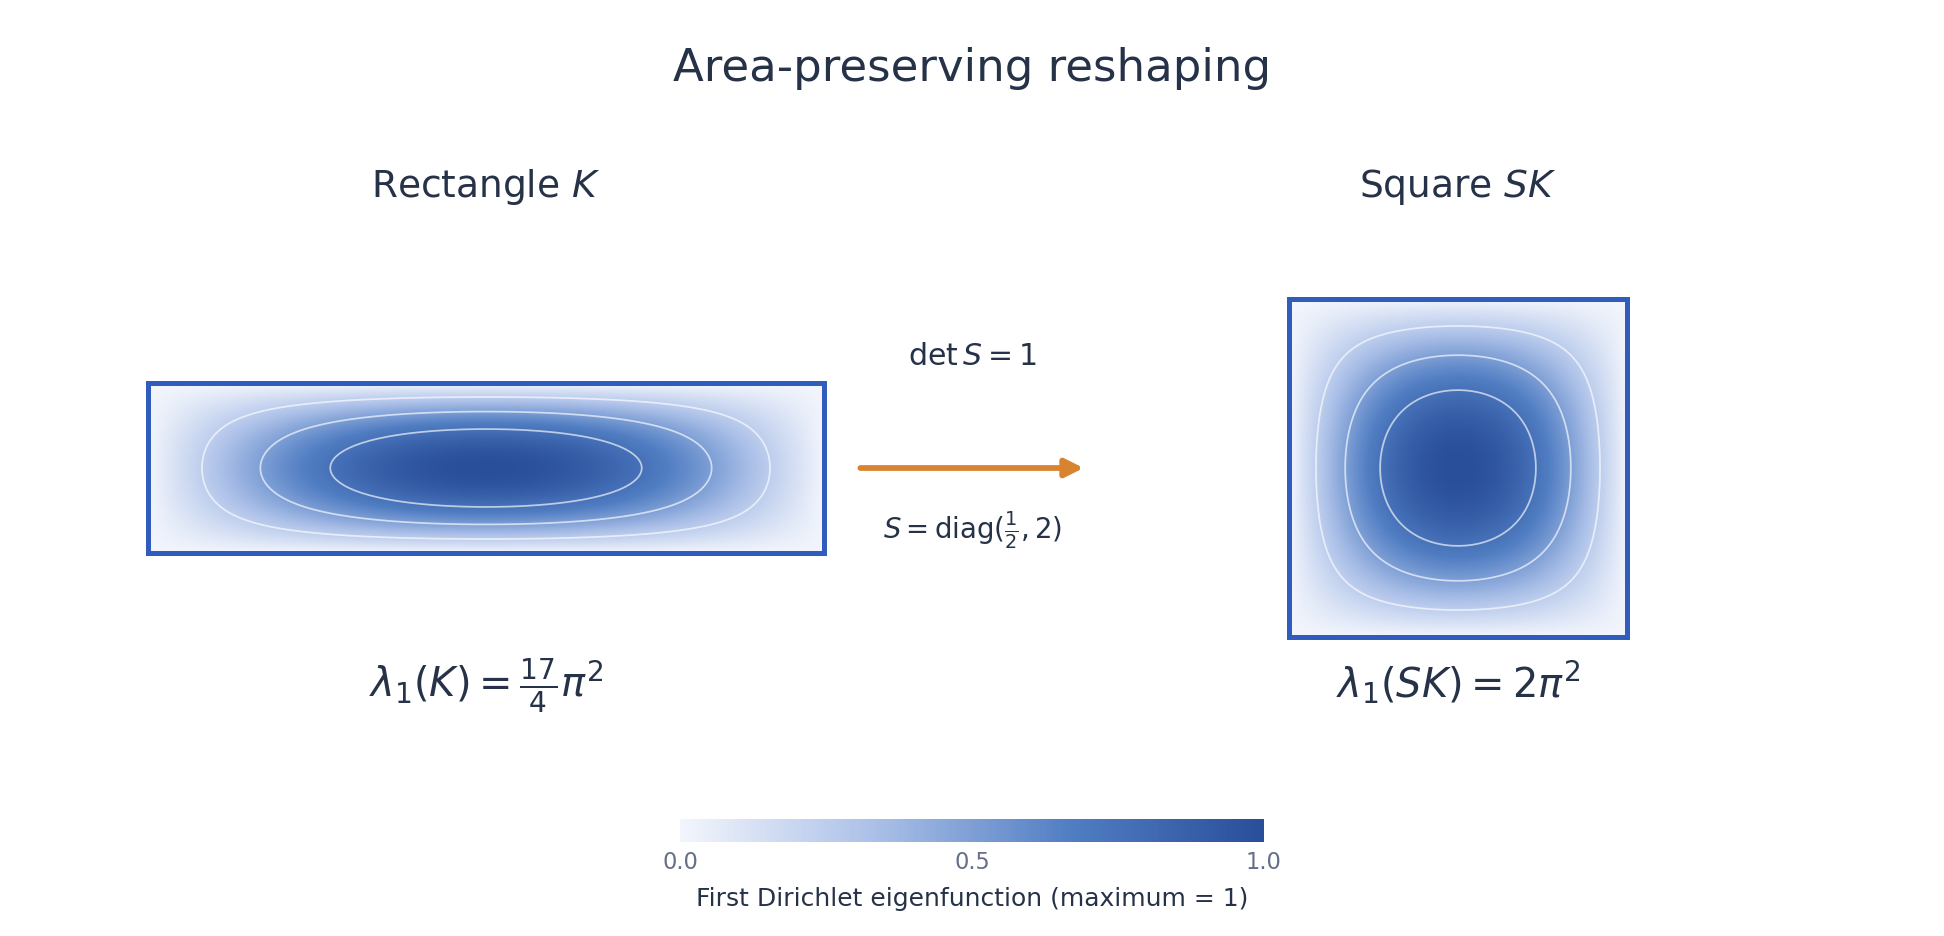
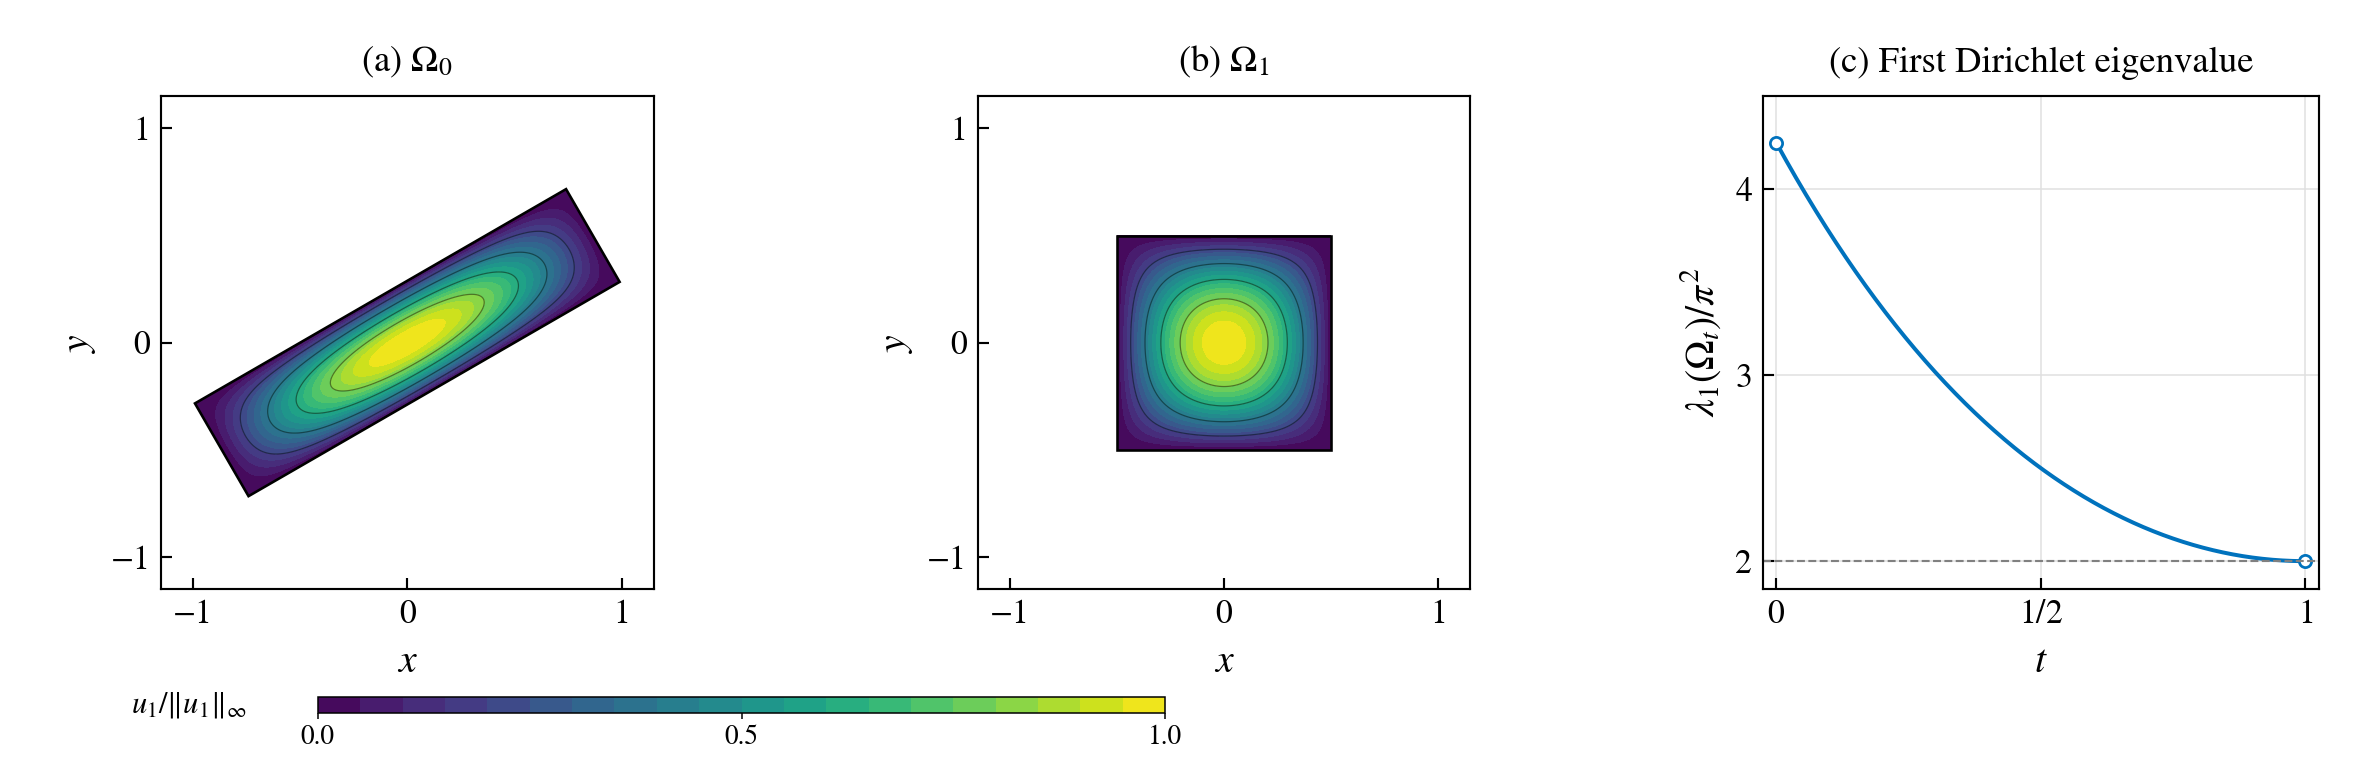
Refine preprint figures and simplify research pop-ups

diff --git a/index.html b/index.html
@@ -708,7 +708,7 @@
               <div data-groups='["all","other"]' class="item-portfolio">
                 <div class="research-card open-modal-portfolio" data-modal-id="modal-publication-affine-reverse-faber-krahn">
                   <div class="research-card-figure" style="--figure-padding: 8px">
-                    <svg class="research-card-thumbnail" viewBox="0 0 1944 936" preserveAspectRatio="xMidYMid meet" role="img" aria-label="An area-preserving linear map reshapes a thin rectangle into a square, reducing its first Dirichlet eigenvalue" focusable="false"><defs><clipPath id="figure-crop-affine-reverse-faber-krahn"><rect x="0" y="0" width="1944" height="936" /></clipPath></defs><image href="assets/images/portfolios/affine_reverse_faber_krahn.png" width="1944" height="936" clip-path="url(#figure-crop-affine-reverse-faber-krahn)" /></svg>
+                    <svg class="research-card-thumbnail" viewBox="52 37 610 652" preserveAspectRatio="xMidYMid meet" role="img" aria-label="Contours of the first Dirichlet eigenfunction on a rotated unit-area rectangle" focusable="false"><defs><clipPath id="figure-crop-affine-reverse-faber-krahn"><rect x="52" y="37" width="610" height="652" /></clipPath></defs><image href="assets/images/portfolios/affine_reverse_faber_krahn.png" width="2354" height="770" clip-path="url(#figure-crop-affine-reverse-faber-krahn)" /></svg>
                   </div>
                   <div class="research-card-body">
                     <h2 class="text-base font-medium text-heading">An affine reverse Faber-Krahn inequality via information decay</h2>
@@ -720,7 +720,7 @@
               <div data-groups='["all","other"]' class="item-portfolio">
                 <div class="research-card open-modal-portfolio" data-modal-id="modal-publication-spectral-isometries">
                   <div class="research-card-figure" style="--figure-padding: 8px">
-                    <svg class="research-card-thumbnail" viewBox="90 125 850 710" preserveAspectRatio="xMidYMid meet" role="img" aria-label="Nested elliptical numerical ranges share fixed eigenvalues at minus one and plus one" focusable="false"><defs><clipPath id="figure-crop-spectral-isometries"><rect x="90" y="125" width="850" height="710" /></clipPath></defs><image href="assets/images/portfolios/spectral_isometries.png" width="1944" height="936" clip-path="url(#figure-crop-spectral-isometries)" /></svg>
+                    <svg class="research-card-thumbnail" viewBox="173 29 915 739" preserveAspectRatio="xMidYMid meet" role="img" aria-label="Nested elliptical numerical ranges share fixed eigenvalues at minus one and plus one" focusable="false"><defs><clipPath id="figure-crop-spectral-isometries"><rect x="173" y="29" width="915" height="739" /></clipPath></defs><image href="assets/images/portfolios/spectral_isometries.png" width="2068" height="814" clip-path="url(#figure-crop-spectral-isometries)" /></svg>
                   </div>
                   <div class="research-card-body">
                     <h2 class="text-base font-medium text-heading">Spectral isometries of unital C*-algebras</h2>
@@ -902,8 +902,7 @@
   <h1 class="text-xl font-medium text-heading">An affine reverse Faber-Krahn inequality via information decay</h1>
   <h2 class="text-sm font-normal text-paragraph">Matthew J. Colbrook and George Stepaniants</h2>
   <a href="https://arxiv.org/abs/2611.02279" class="flex items-center text-sm text-primary hover:underline w-fit"><span>https://arxiv.org/abs/2611.02279</span></a>
-  <img src="assets/images/portfolio-details/affine_reverse_faber_krahn.png" class="w-full mh-64 object-cover rounded-md my-7" alt="First Dirichlet eigenfunctions on a unit-area rectangle and square, connected by a determinant-one linear map, with their exact first eigenvalues" />
-  <p class="text-xs text-paragraph mb-5">Illustration for unit-area rectangles: an area-preserving map takes a 2 by 1/2 rectangle to the unit square, reducing the first Dirichlet eigenvalue from 17π²/4 to 2π². Colors show the first eigenfunction scaled to a maximum of one. This is an explanatory illustration, not a figure from the preprint.</p>
+  <img src="assets/images/portfolio-details/affine_reverse_faber_krahn.png" class="w-full mh-64 object-cover rounded-md my-7" alt="First Dirichlet eigenfunctions on a rotated unit-area rectangle and square, and the exact first eigenvalue along an area-preserving affine path" />
   <a href="assets/images/portfolios/affine_reverse_faber_krahn.png" target="_blank" rel="noopener" class="inline-block text-sm text-primary hover:underline mb-5">View full figure from the research card</a>
   <ul class="flex flex-col gap-2.5 text-paragraph text-sm">
     <li><b class="font-medium text-heading">Venue:</b> arXiv preprint arXiv:2611.02279</li>
@@ -918,7 +917,6 @@
   <h2 class="text-sm font-normal text-paragraph">Matthew J. Colbrook and George Stepaniants</h2>
   <a href="https://arxiv.org/abs/2610.40470" class="flex items-center text-sm text-primary hover:underline w-fit"><span>https://arxiv.org/abs/2610.40470</span></a>
   <img src="assets/images/portfolio-details/spectral_isometries.png" class="w-full mh-64 object-cover rounded-md my-7" alt="Elliptical numerical ranges of similar two-by-two matrices with fixed eigenvalues, beside a constant spectral radius and increasing operator norm" />
-  <p class="text-xs text-paragraph mb-5">Illustration of the similarity example from the introduction. For A = [[0, 1], [1, 0]] and Sₜ = diag(eᵗ, e⁻ᵗ), Tₜ(A) = Sₜ A Sₜ⁻¹ has eigenvalues -1 and 1 and satisfies Tₜ(A)² = I. Its numerical range and operator norm vary with t, while its spectral radius stays equal to one. This is an explanatory illustration, not a figure from the preprint.</p>
   <a href="assets/images/portfolios/spectral_isometries.png" target="_blank" rel="noopener" class="inline-block text-sm text-primary hover:underline mb-5">View full figure from the research card</a>
   <ul class="flex flex-col gap-2.5 text-paragraph text-sm">
     <li><b class="font-medium text-heading">Venue:</b> arXiv preprint arXiv:2610.40470</li>
@@ -933,7 +931,6 @@
   <h2 class="text-sm font-normal text-paragraph">Matthew J. Colbrook, George Stepaniants, and Alex Townsend</h2>
   <a href="https://arxiv.org/abs/2609.04659" class="flex items-center text-sm text-primary hover:underline w-fit"><span>https://arxiv.org/abs/2609.04659</span></a>
   <img src="assets/images/portfolio-details/forsythe_complete_resolution.png" class="w-full mh-64 object-cover rounded-md my-7" alt="Limiting two-cycle geometry at restart length three alongside a transverse Hopf crossing at restart length four" />
-  <p class="text-xs text-paragraph mb-5">Figure 1. The threshold mechanism: the parameter rectangle of limiting two-cycles for restart length three (left), and a numerical reconstruction of the certified transverse Hopf crossing for restart length four (right).</p>
   <a href="assets/images/portfolios/forsythe_complete_resolution.png" target="_blank" rel="noopener" class="inline-block text-sm text-primary hover:underline mb-5">View full figure from the research card</a>
   <ul class="flex flex-col gap-2.5 text-paragraph text-sm">
     <li><b class="font-medium text-heading">Venue:</b> arXiv preprint arXiv:2609.04659</li>
@@ -948,7 +945,6 @@
   <h2 class="text-sm font-normal text-paragraph">Matthew J. Colbrook, Siavash Sadeghi, and George Stepaniants</h2>
   <a href="https://arxiv.org/abs/2608.08953" class="flex items-center text-sm text-primary hover:underline w-fit"><span>https://arxiv.org/abs/2608.08953</span></a>
   <img src="assets/images/portfolio-details/berenstein.png" class="w-full mh-64 object-cover rounded-md my-7" alt="Sign-changing eigenfunction on a noncircular domain with thirteen-fold rotational symmetry, with nodal curves and a color scale" />
-  <p class="text-xs text-paragraph mb-5">Figure 1. Numerical approximation to the sign-changing eigenfunction on the Berenstein counterexample domain.</p>
   <a href="assets/images/portfolios/berenstein.png" target="_blank" rel="noopener" class="inline-block text-sm text-primary hover:underline mb-5">View full figure from the research card</a>
   <ul class="flex flex-col gap-2.5 text-paragraph text-sm">
     <li><b class="font-medium text-heading">Venue:</b> arXiv preprint arXiv:2608.08953</li>
@@ -963,7 +959,6 @@
   <h2 class="text-sm font-normal text-paragraph">Matthew J. Colbrook, George Stepaniants, and Alex Townsend</h2>
   <a href="https://arxiv.org/abs/2608.02852" class="flex items-center text-sm text-primary hover:underline w-fit"><span>https://arxiv.org/abs/2608.02852</span></a>
   <img src="assets/images/portfolio-details/forsythe.png" class="w-full mh-64 object-cover rounded-md my-7" alt="Even and odd restarted conjugate-gradient trajectories approach two limiting directions, while their distances to those limits decay to roundoff" />
-  <p class="text-xs text-paragraph mb-5">Figure 1. Two-step restarted conjugate gradients: residual trajectories and convergence to the even and odd limiting states.</p>
   <a href="assets/images/portfolios/forsythe.png" target="_blank" rel="noopener" class="inline-block text-sm text-primary hover:underline mb-5">View full figure from the research card</a>
   <ul class="flex flex-col gap-2.5 text-paragraph text-sm">
     <li><b class="font-medium text-heading">Venue:</b> arXiv preprint arXiv:2608.02852</li>
@@ -978,7 +973,6 @@
   <h2 class="text-sm font-normal text-paragraph">Matthew J. Colbrook and George Stepaniants</h2>
   <a href="https://arxiv.org/abs/2608.01579" class="flex items-center text-sm text-primary hover:underline w-fit"><span>https://arxiv.org/abs/2608.01579</span></a>
   <img src="assets/images/portfolio-details/pompeiu_schiffer.png" class="w-full mh-64 object-cover rounded-md my-7" alt="Ten-lobed, noncircular shortcake-shaped domain forming a counterexample to the planar Pompeiu and Schiffer conjectures" />
-  <p class="text-xs text-paragraph mb-5">Figure 1. Boundary of the finite conformal approximation to the ten-lobed counterexample domain.</p>
   <a href="assets/images/portfolios/pompeiu_schiffer.png" target="_blank" rel="noopener" class="inline-block text-sm text-primary hover:underline mb-5">View full figure from the research card</a>
   <ul class="flex flex-col gap-2.5 text-paragraph text-sm">
     <li><b class="font-medium text-heading">Venue:</b> arXiv preprint arXiv:2608.01579</li>
